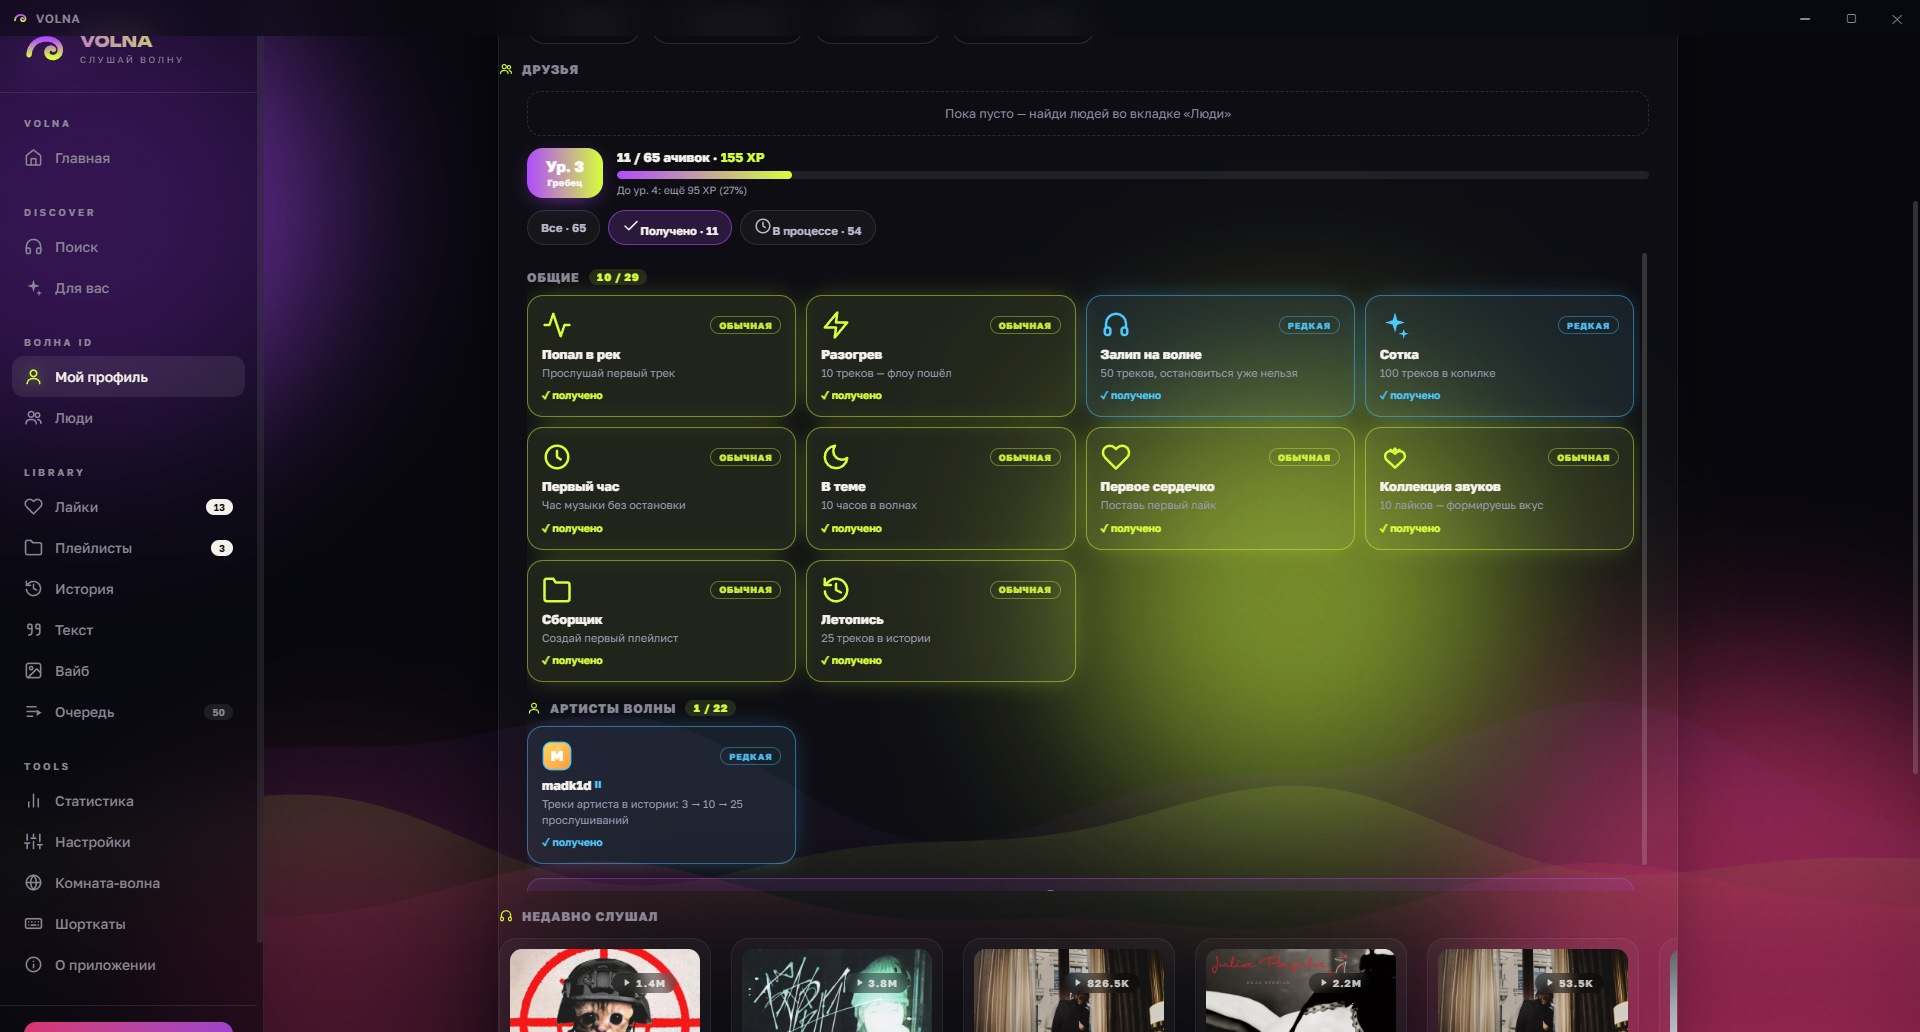
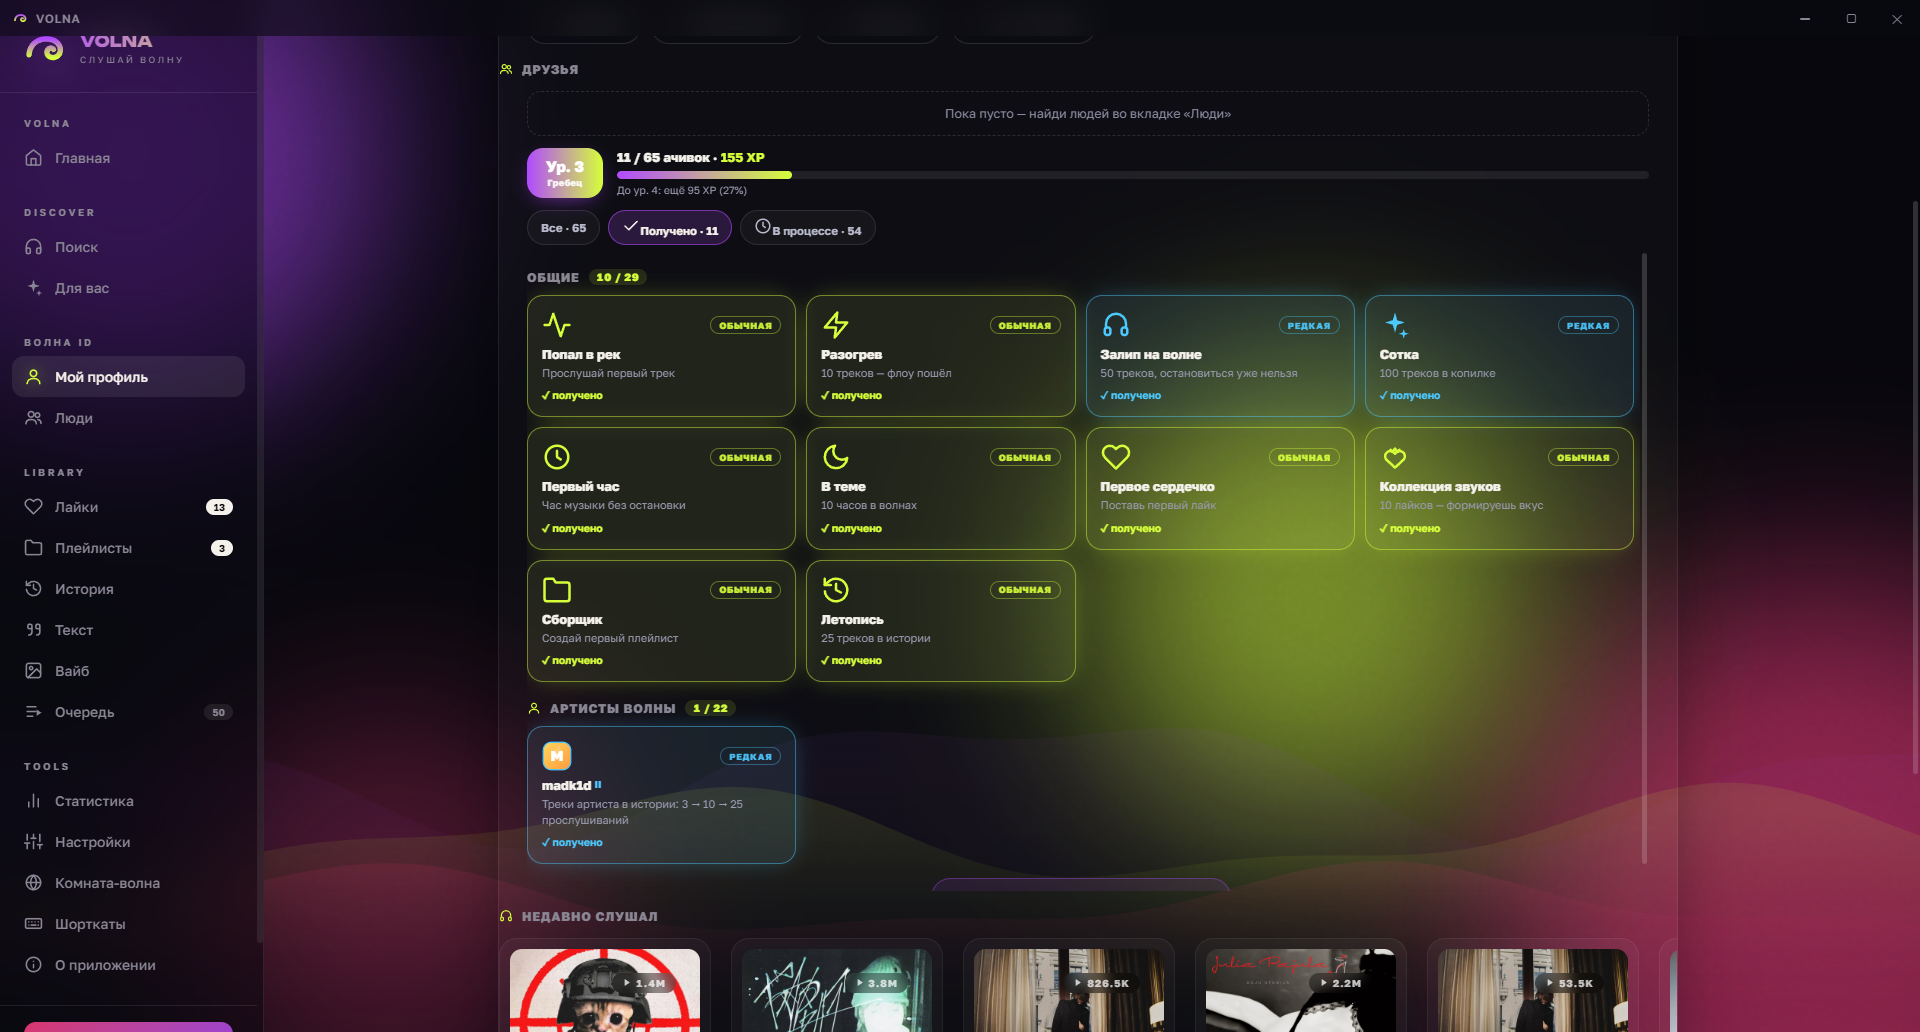
v1.1 (polish round 3): hero two-column layout with big artwork tile + play overlay (fills the dead space users actually see), denser 1420px content, achievement expand as centered pill, unlock pops capped at 4 below hotbar

diff --git a/renderer/styles.css b/renderer/styles.css
@@ -130,7 +130,7 @@ transition:background .15s,color .15s}
 .tb-btn:hover{background:rgba(255,255,255,.1);color:var(--text)}
 .tb-close:hover{background:#ff3d55;color:#fff}
 body.no-cursor .tb-btn{cursor:pointer}
-.content{padding:52px 40px 200px;max-width:1600px;margin:0 auto}
+.content{padding:52px 40px 200px;max-width:1420px;margin:0 auto}
 .view{display:none;animation:fadeIn .4s ease}
 .view.active{display:block}
 @keyframes fadeIn{from{opacity:0;transform:translateY(10px)}to{opacity:1;transform:none}}
@@ -840,8 +840,20 @@ body.amb-on .pbtn.main{box-shadow:0 8px 26px -8px var(--amb-soft)}
 body.amb-on .toast.success{border-color:color-mix(in srgb,var(--amb) 45%,transparent)}
 
 /* ============ v7.1: 🎬 кинематографичный Home + NP-амбиент ============ */
-.home-hero{position:relative;overflow:hidden;padding:38px 34px 26px;border-radius:26px;
+.home-hero{position:relative;overflow:hidden;padding:38px 34px 30px;border-radius:26px;display:grid;grid-template-columns:1fr auto;gap:10px 34px;align-items:center;
 background:rgba(255,255,255,.03);border:1px solid rgba(255,255,255,.06);margin-bottom:20px}
+.hero-left{position:relative;z-index:1;min-width:0}
+.hero-art{position:relative;z-index:1;width:230px;height:230px;border-radius:24px;overflow:hidden;display:none;cursor:pointer;
+box-shadow:0 26px 60px -18px color-mix(in srgb,var(--accent) 60%,transparent),0 0 0 1px rgba(255,255,255,.08);transition:transform .3s cubic-bezier(.2,.8,.2,1)}
+.hero-art.on{display:block;animation:cardIn .5s ease}
+.hero-art:hover{transform:scale(1.035) rotate(-1deg)}
+.hero-art img{width:100%;height:100%;object-fit:cover}
+.hero-art-play{position:absolute;inset:0;display:flex;align-items:center;justify-content:center;opacity:0;transition:.25s;
+background:linear-gradient(180deg,transparent 30%,rgba(7,7,13,.72));}
+.hero-art-play .ic{width:54px;height:54px;color:#fff;background:var(--grad);border-radius:50%;padding:14px;
+box-shadow:0 10px 30px -6px color-mix(in srgb,var(--accent) 80%,transparent)}
+.hero-art:hover .hero-art-play{opacity:1}
+@media(max-width:1150px){.hero-art{display:none !important}}
 .home-hero-bg{position:absolute;inset:-60px;background-size:cover;background-position:center;
 filter:blur(52px) saturate(1.9) brightness(.55);opacity:.55;pointer-events:none;
 box-shadow:inset 0 0 120px 40px rgba(6,6,12,.75)}
@@ -906,7 +918,7 @@ border:1px solid color-mix(in srgb,var(--rc) 40%,transparent);padding:2.5px 8px;
 .ach-bar>div{height:100%;background:linear-gradient(90deg,color-mix(in srgb,var(--rc) 55%,transparent),var(--rc));border-radius:99px}
 .ach-progress span{font-size:10px;color:#9a9ab0;font-variant-numeric:tabular-nums}
 /* 🎉 празднование разблокировки — всплывающие карточки справа сверху */
-#ach-pops{position:fixed;top:18px;right:18px;z-index:950;display:flex;flex-direction:column;gap:10px;pointer-events:none}
+#ach-pops{position:fixed;top:64px;right:18px;z-index:950;display:flex;flex-direction:column;gap:10px;pointer-events:none}
 .ach-pop{--rc:var(--acid);display:flex;align-items:center;gap:12px;min-width:250px;max-width:330px;
 padding:12px 16px;border-radius:18px;background:rgba(14,14,22,.92);backdrop-filter:blur(14px);
 border:1px solid color-mix(in srgb,var(--rc) 55%,transparent);
@@ -1473,7 +1485,7 @@ border:1px solid color-mix(in srgb,var(--rc) 38%,transparent);transition:.15s}
 .ach-mini.r-legend{--rc:#ffd75e}
 .ach-mini-emoji{font-size:16px;line-height:1}
 .ach-mini-name{font-size:11.5px;font-weight:800;color:var(--text)}
-.ach-expand{display:block;width:100%;padding:10px;border-radius:14px;cursor:pointer;font-family:inherit;
+.ach-expand{display:flex;align-items:center;justify-content:center;gap:8px;width:fit-content;min-width:300px;margin:16px auto 0;padding:11px 26px;border-radius:99px;cursor:pointer;font-family:inherit;
 background:color-mix(in srgb,var(--accent) 10%,transparent);border:1px solid color-mix(in srgb,var(--accent) 35%,transparent);
 color:var(--text);font-size:12.5px;font-weight:800;transition:.15s}
 .ach-expand:hover{background:color-mix(in srgb,var(--accent) 18%,transparent);

diff --git a/renderer/index.html b/renderer/index.html
@@ -272,16 +272,19 @@
       <section class="view" id="view-home">
         <div class="home-hero">
           <div class="home-hero-bg" id="home-hero-bg"></div>
-          <div class="home-greet grad-anim" id="home-greeting">Привет</div>
-          <div class="home-sub" id="home-sub"></div>
-          <div class="hero-stats" id="hero-stats"></div>
-          <div class="home-actions">
-            <button class="toolbar-btn primary" onclick="likesRadio()"><svg class="ic" viewBox="0 0 24 24"><use href="#i-wave"/></svg>Волна по лайкам</button>
-            <button class="toolbar-btn" onclick="feelingLucky()"><svg class="ic" viewBox="0 0 24 24"><use href="#i-dice"/></svg>Мне повезёт</button>
-            <button class="toolbar-btn" onclick="playAllFavorites()"><svg class="ic" viewBox="0 0 24 24"><use href="#i-heart"/></svg>Играть лайки</button>
-            <button class="toolbar-btn" onclick="switchView('discover')"><svg class="ic" viewBox="0 0 24 24"><use href="#i-search"/></svg>Поиск</button>
+          <div class="hero-left">
+            <div class="home-greet grad-anim" id="home-greeting">Привет</div>
+            <div class="home-sub" id="home-sub"></div>
+            <div class="hero-stats" id="hero-stats"></div>
+            <div class="home-actions">
+              <button class="toolbar-btn primary" onclick="likesRadio()"><svg class="ic" viewBox="0 0 24 24"><use href="#i-wave"/></svg>Волна по лайкам</button>
+              <button class="toolbar-btn" onclick="feelingLucky()"><svg class="ic" viewBox="0 0 24 24"><use href="#i-dice"/></svg>Мне повезёт</button>
+              <button class="toolbar-btn" onclick="playAllFavorites()"><svg class="ic" viewBox="0 0 24 24"><use href="#i-heart"/></svg>Играть лайки</button>
+              <button class="toolbar-btn" onclick="switchView('discover')"><svg class="ic" viewBox="0 0 24 24"><use href="#i-search"/></svg>Поиск</button>
+            </div>
+            <div id="home-resume"></div>
           </div>
-          <div id="home-resume"></div>
+          <div class="hero-art" id="hero-art" onclick="heroPlay()" title="Играть"></div>
         </div>
         <div class="section-head"><div><h2 class="section-title">Из твоих лайков</h2><div class="section-sub">Свежее из ❤</div></div><button class="toolbar-btn" onclick="switchView('favorites')">Открыть лайки</button></div>
         <div class="tracks shelf" id="home-likes"></div>

diff --git a/renderer/app.js b/renderer/app.js
@@ -574,6 +574,12 @@ function plural(n, one, few, many) {
   return many;
 }
 
+/* обложка в герое главной: клик — играть */
+function heroPlay() {
+  const t = state.currentTrack || (state.lastTrack && state.lastTrack.track) || (state.homeContinue && state.homeContinue[0]);
+  if (t) playTrack(t, 'home');
+}
+
 /* ---------- Главная: приветствие, продолжить, популярное ---------- */
 function renderHome() {
   const h = new Date().getHours();
@@ -595,6 +601,16 @@ function renderHome() {
     const img = src ? artwork(src) : '';
     hb.style.backgroundImage = img ? `url('${img}')` : '';
     hb.style.opacity = img ? '' : '0';
+  }
+  // большая обложка справа в герое — заполняет пустую половину экрана
+  const ha = $('#hero-art');
+  if (ha) {
+    const src = state.currentTrack || (state.lastTrack && state.lastTrack.track) || (state.homeContinue && state.homeContinue[0]) || null;
+    const img = src ? artwork(src) : '';
+    ha.innerHTML = img
+      ? `<img src="${escapeHtml(img)}" alt=""><div class="hero-art-play"><svg class="ic fill" viewBox="0 0 24 24"><use href="#i-play"/></svg></div>`
+      : '';
+    ha.classList.toggle('on', !!img);
   }
   const cont = state.history.filter(x => x.id !== state.currentTrack?.id).slice(0, 8);
   state.homeContinue = cont; // плеер играет строго по этому списку

diff --git a/renderer/achievements.js b/renderer/achievements.js
@@ -273,6 +273,7 @@ window.Ach = (function () {
       <div class="ach-pop-txt"><div class="ach-pop-cap">Ачивка открыта · ${R.label}</div>
       <div class="ach-pop-name">${escapeHtml(a.name)}</div>
       <div class="ach-pop-xp">+${R.xp} XP</div></div>`;
+    while (box.children.length >= 4) box.firstChild.remove();
     box.appendChild(el);
     setTimeout(() => el.classList.add('out'), 4200);
     setTimeout(() => el.remove(), 4900);
